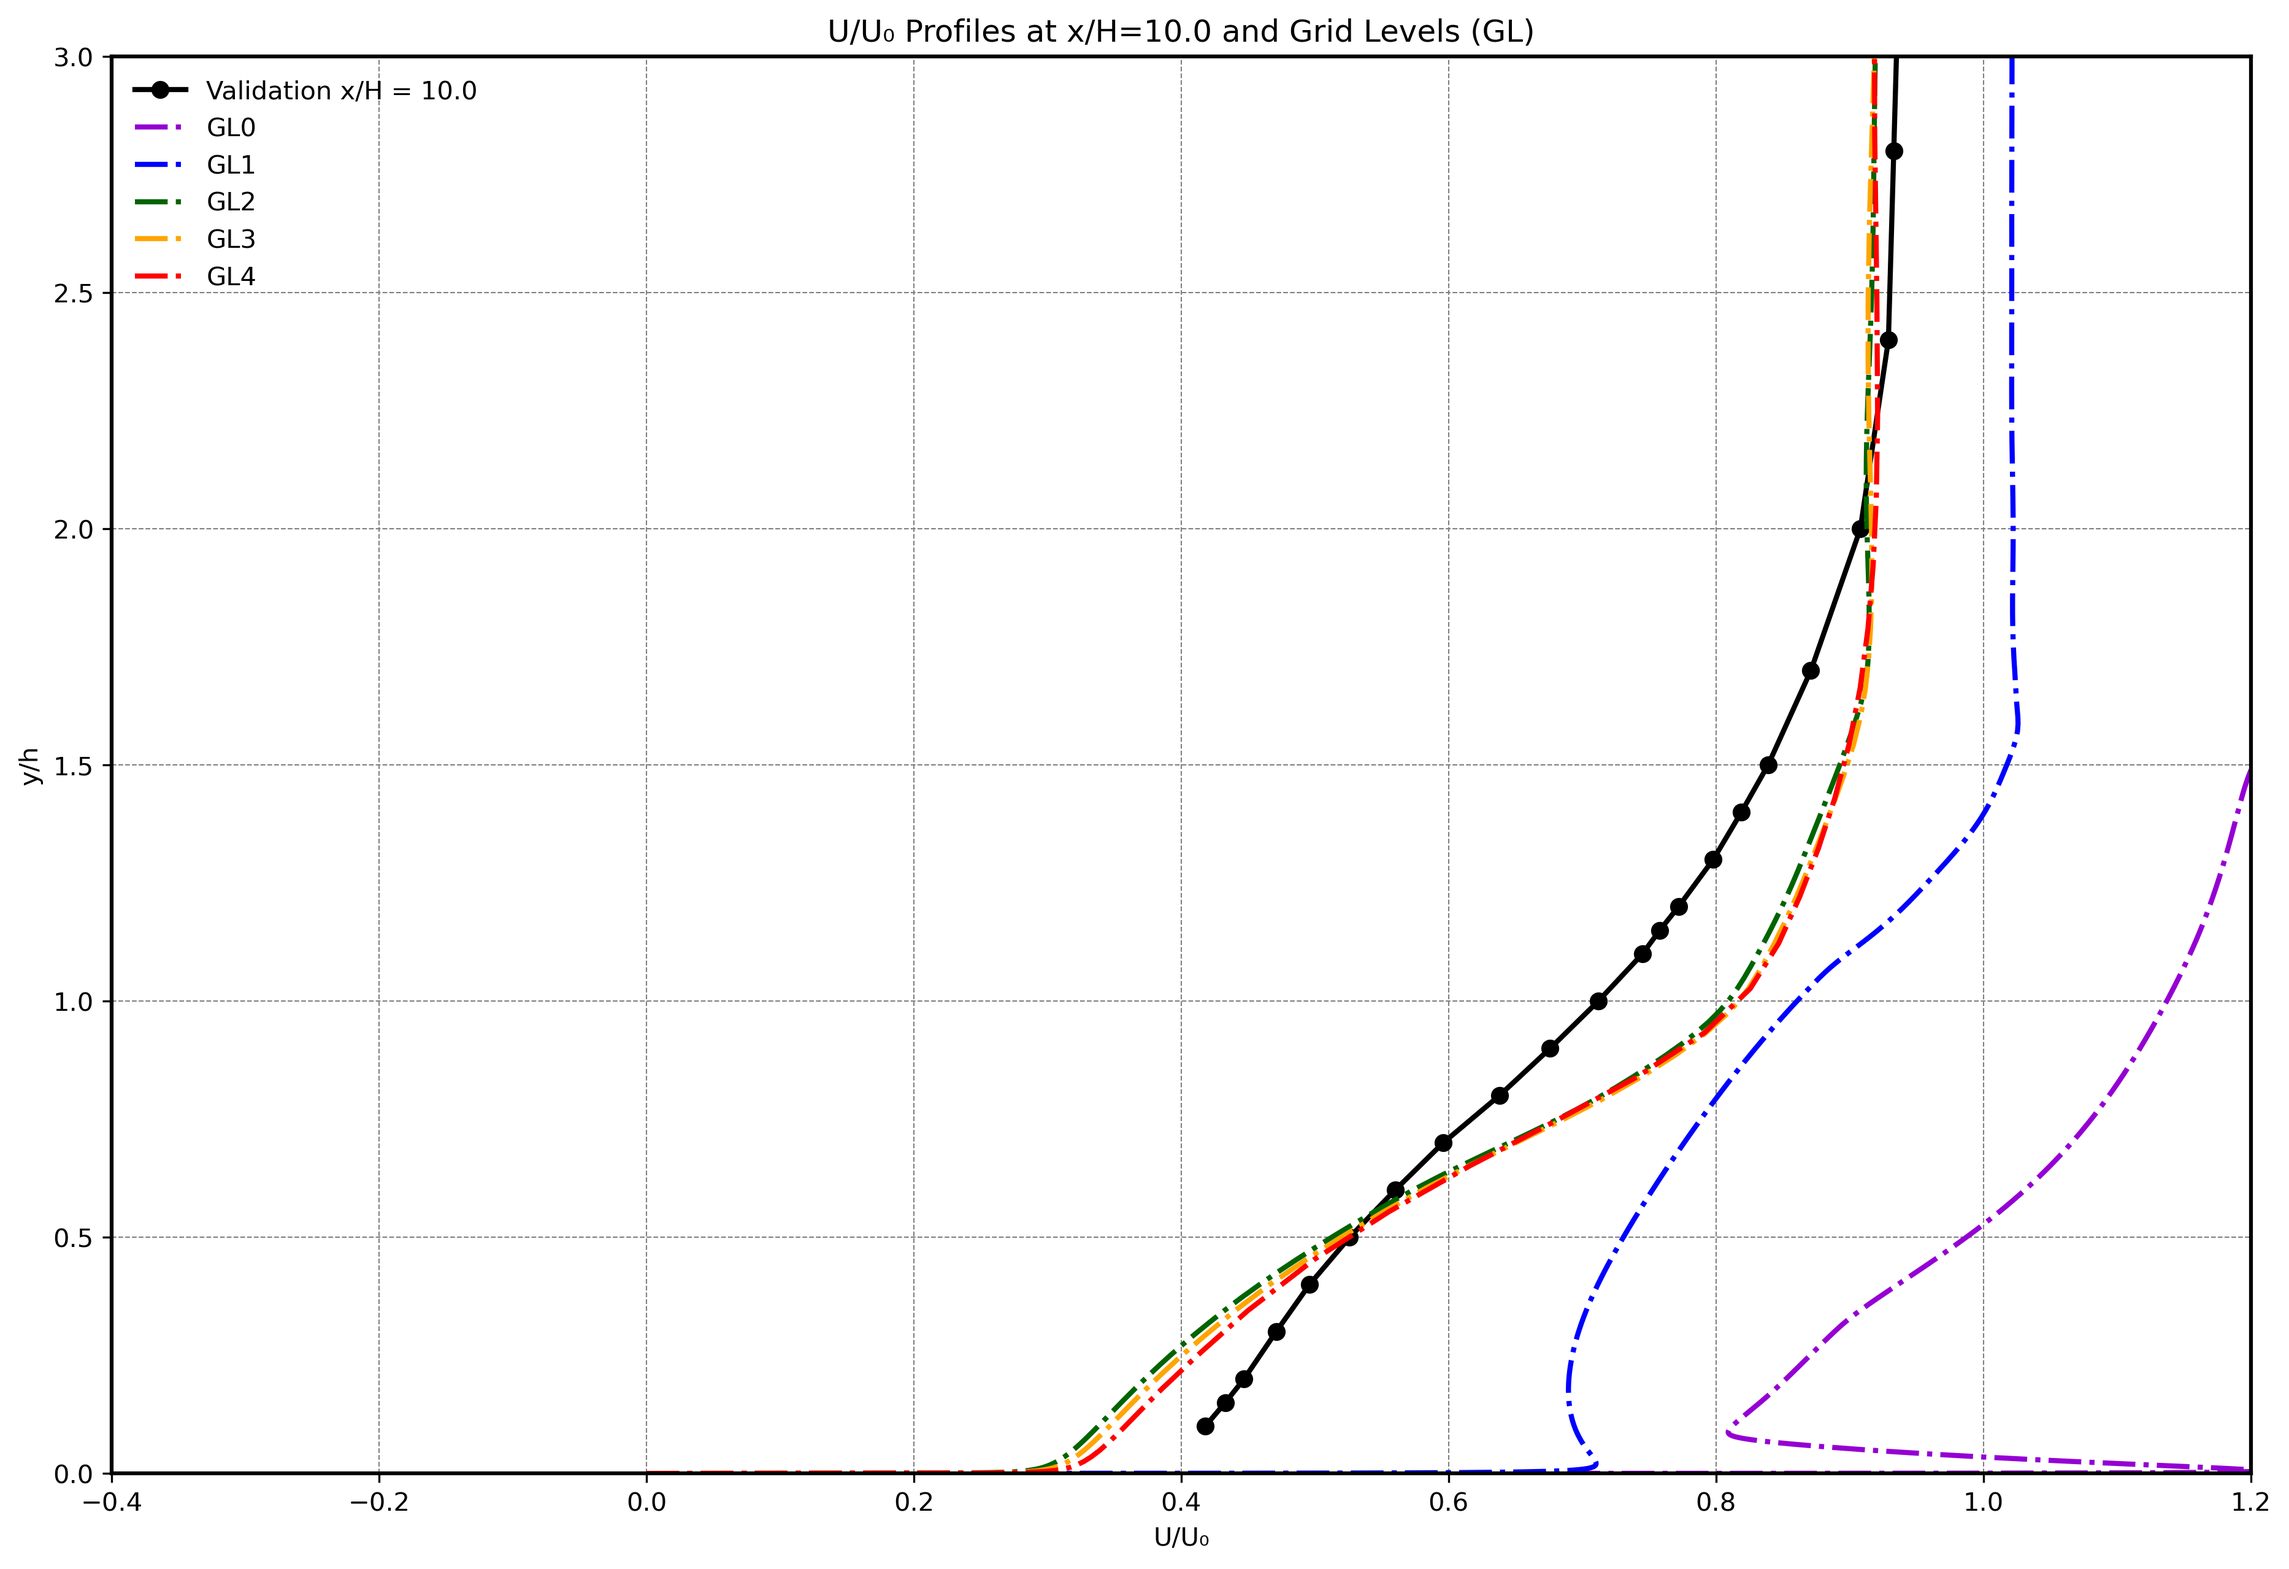
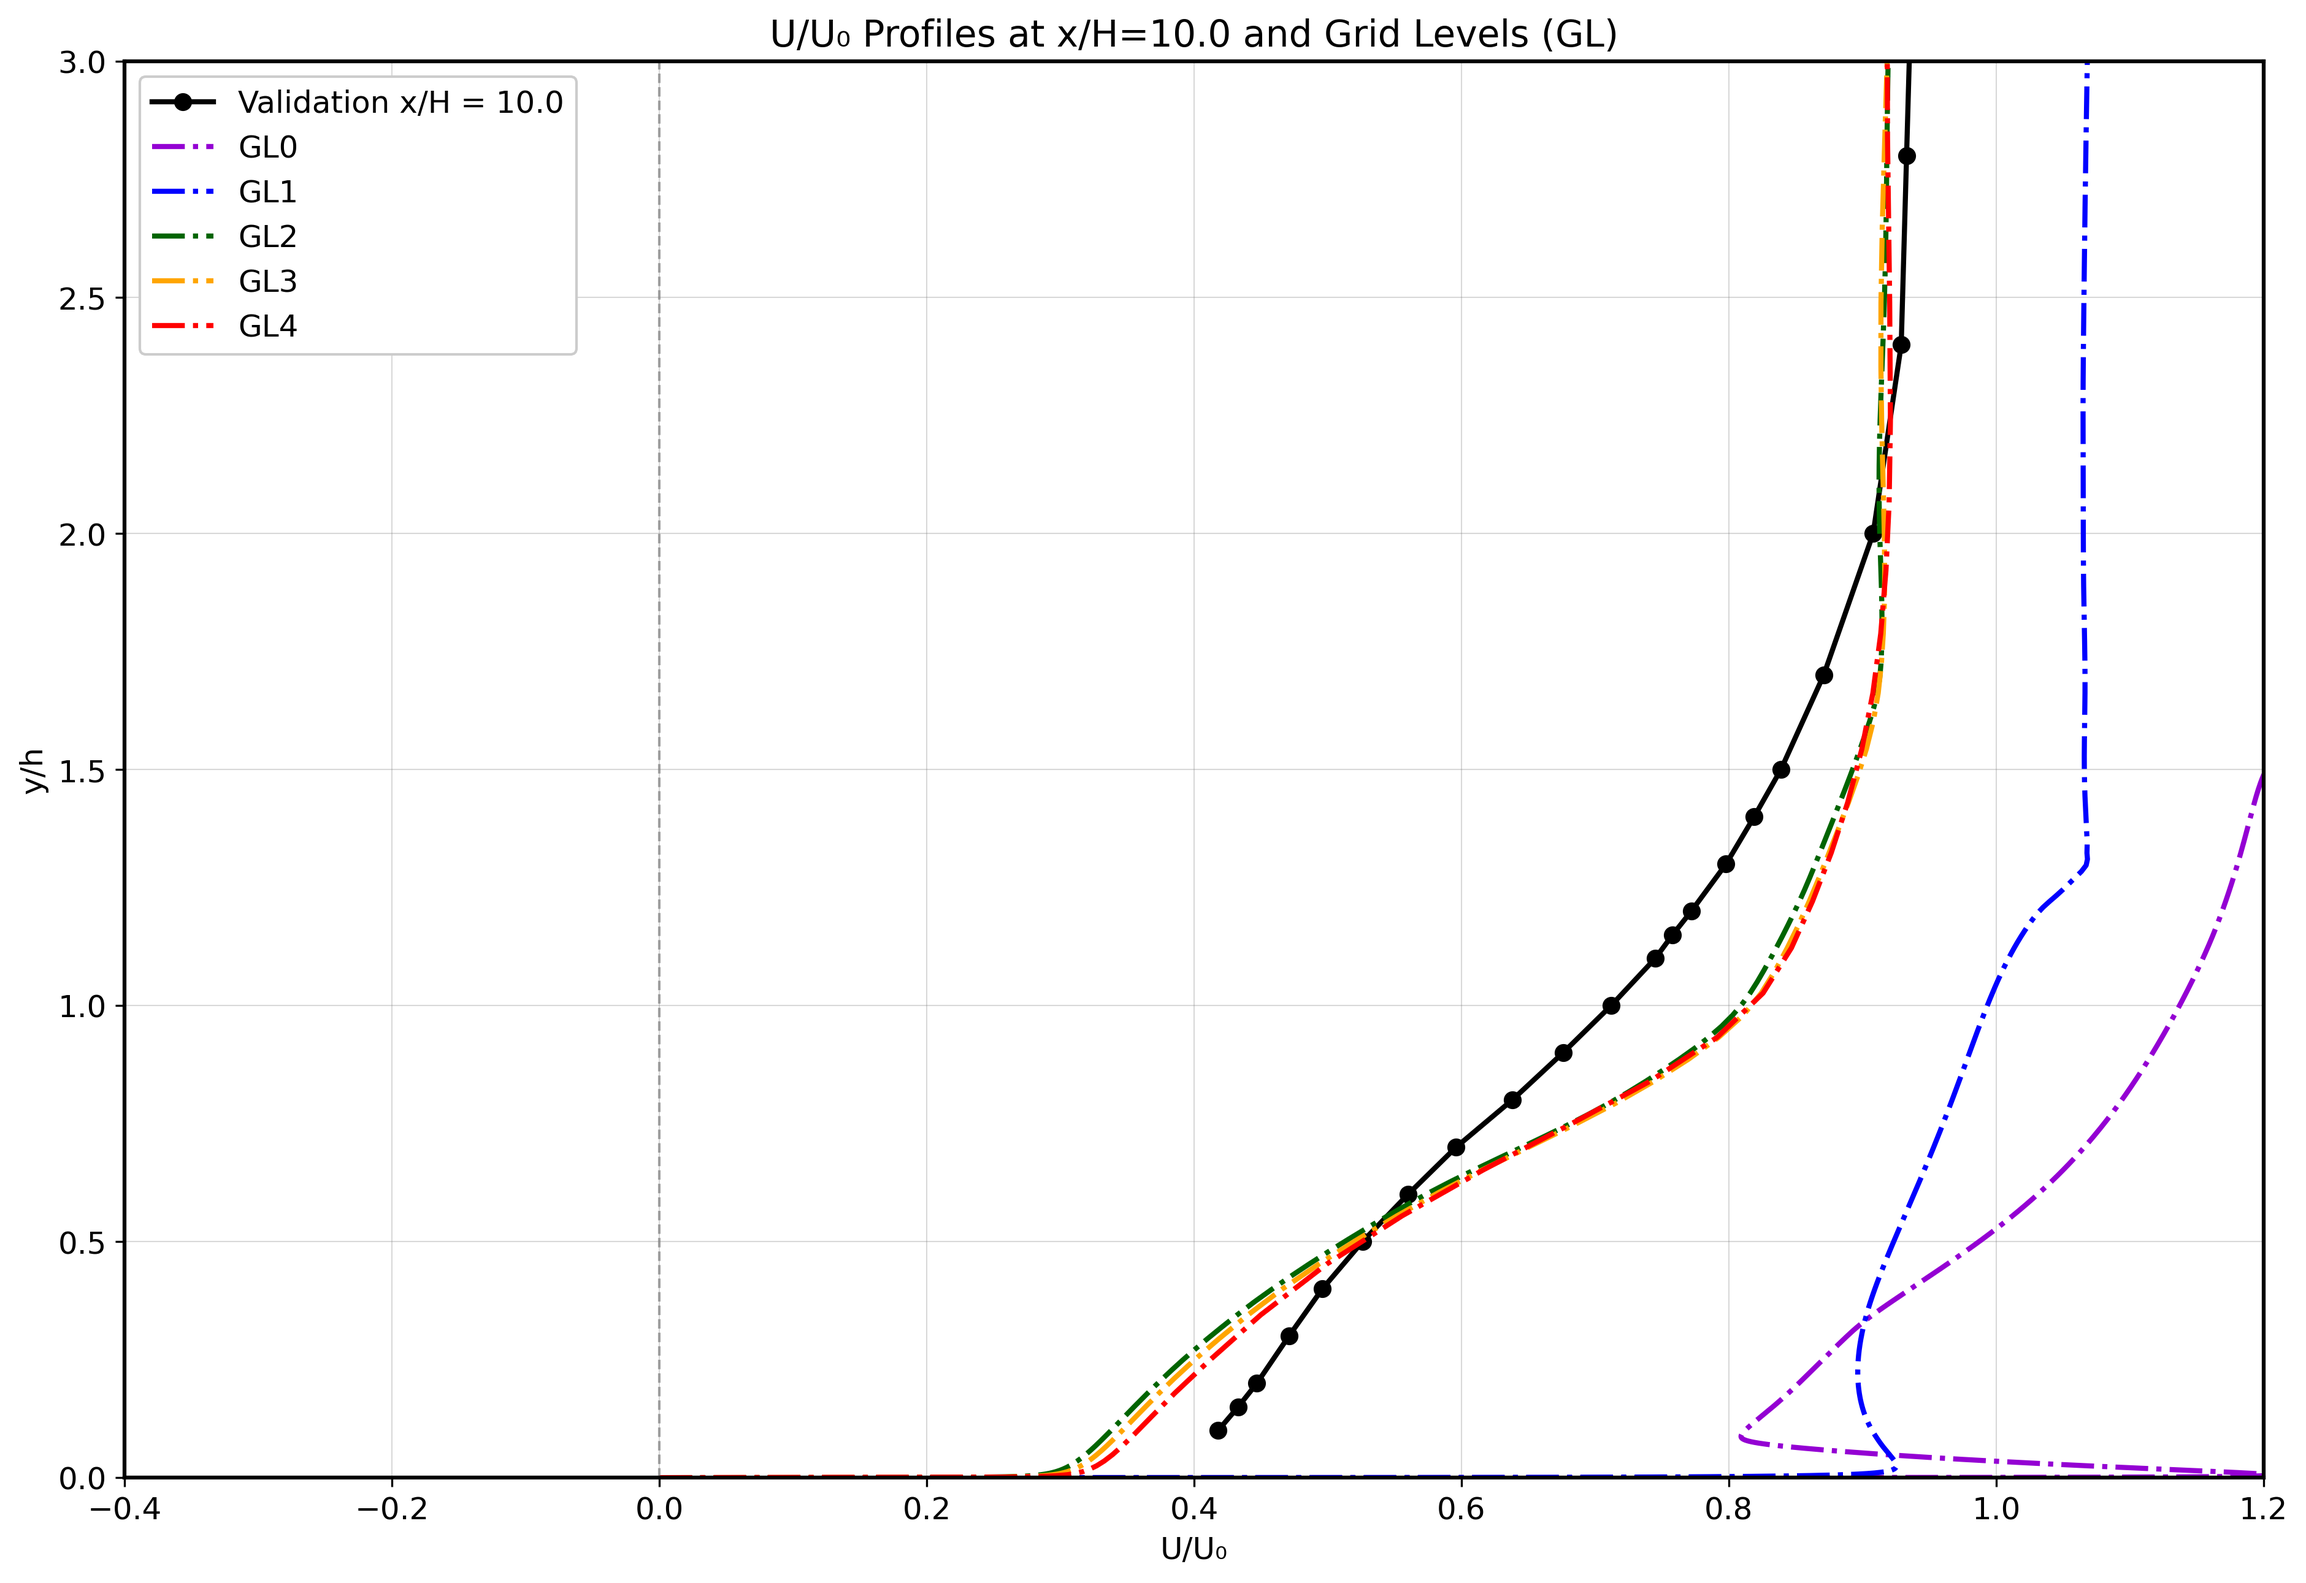
Changed plot style

diff --git a/plotter.py b/plotter.py
@@ -5,13 +5,15 @@ import numpy as np
 
 # Set matplotlib style
 plt.rcParams.update({
-    'font.size': 10,
+    'font.size': 12,
     'grid.color': 'gray',
-    'grid.linestyle': '--',
+    'grid.linestyle': '-',
     'grid.linewidth': 0.5,
+    'grid.alpha': 0.3,
     'axes.linewidth': 1.5,
     'lines.linewidth': 2,
-    'legend.frameon': False
+    'legend.frameon': True,
+    'legend.framealpha':1.0
 })
 
 # Constants
@@ -23,7 +25,7 @@ STEP_HEIGHT = 1 # m
 X_H_LOCATIONS = [10.0]
 GRID_LEVEL = [0, 1, 2, 3, 4]
 
-# Assign colors 
+# Assign colors
 grid_colors = ['darkviolet', 'blue', 'darkgreen', 'orange', 'red' ]
 
 # Initialize plot
@@ -69,6 +71,7 @@ ax.set_xlabel("U/U₀")
 ax.set_ylabel("y/h")
 ax.set_title(f"U/U₀ Profiles at x/H={X_H_LOCATIONS[0]} and Grid Levels (GL)")
 ax.grid(True)
+ax.axvline(x=0, color='gray', linestyle='--', linewidth=1, alpha=0.7)
 ax.legend(loc="upper left")
 
 # Save and show

diff --git a/plotter_subPlots.py b/plotter_subPlots.py
@@ -4,13 +4,15 @@ from matplotlib import cm
 
 # Set matplotlib style
 plt.rcParams.update({
-    'font.size': 10,
+    'font.size': 12,
     'grid.color': 'gray',
-    'grid.linestyle': '--',
+    'grid.linestyle': '-',
     'grid.linewidth': 0.5,
+    'grid.alpha': 0.3,
     'axes.linewidth': 1.5,
     'lines.linewidth': 2,
-    'legend.frameon': False
+    'legend.frameon': True,
+    'legend.framealpha':1.0
 })
 
 # Compare specified grid levels for all x/H locations
@@ -87,6 +89,7 @@ for idx, x_h in enumerate(X_H_LOCATIONS):
     ax.set_ylabel("y/h")
     ax.set_title(f"x/H = {x_h}")
     ax.grid(True)
+    ax.axvline(x=0, color='gray', linestyle='--', linewidth=1, alpha=0.7)
     ax.legend(loc="upper left")
 
 # Add overall title
